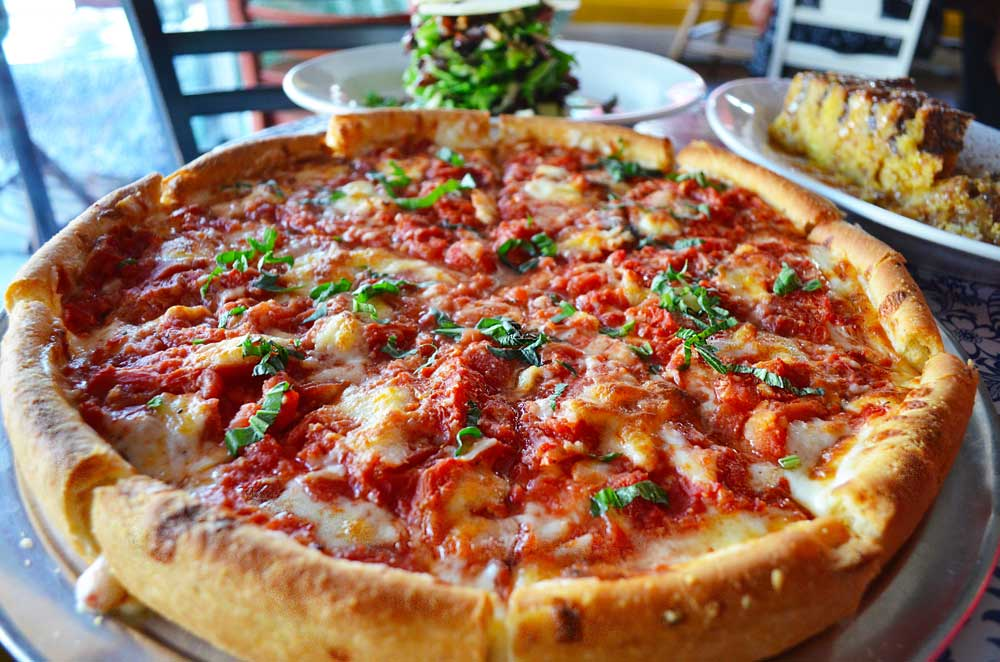
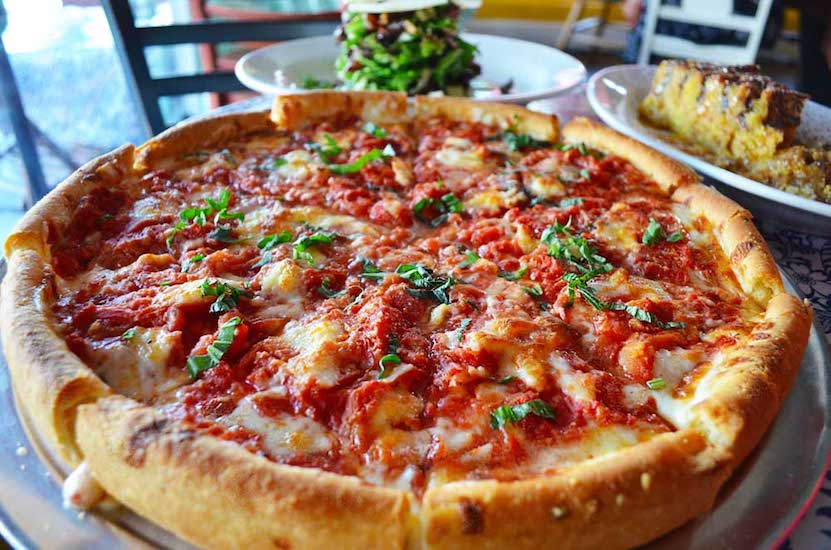
Added some style to the index carousel

diff --git a/app/assets/stylesheets/master.scss b/app/assets/stylesheets/master.scss
@@ -78,3 +78,35 @@ blockquote p {
 .places-picture {
   width: 100%;
 }
+
+.carousel-inner > .carousel-item > img, .carousel-inner > .carousel-item > a > img {
+  max-height: 550px;
+  width: 100%;
+}
+
+.carousel-item.active,
+.carousel-item-next,
+.carousel-item-prev {
+  display: block;
+}
+
+.navbar .navbar-inverse {
+  background: image_url('cartographer.png');
+  box-shadow: 0px 1px 3px #2a2a2a;
+  margin-bottom: 0;
+}
+
+.carousel-caption {
+  font-family: 'Helvetica Neue', Helvetica, sans-serif;
+  font-size: 60px;
+  font-weight: 100;
+  text-shadow: rgba(0,0,0,0.95), 2px 2px;
+  background-color: rgba(0,0,0,0.5);
+  width: 100%;
+  position: absolute;
+  left: 0;
+}
+
+.carousel {
+  box-shadow: 0px 3px 8px #2a2a2a;
+}
